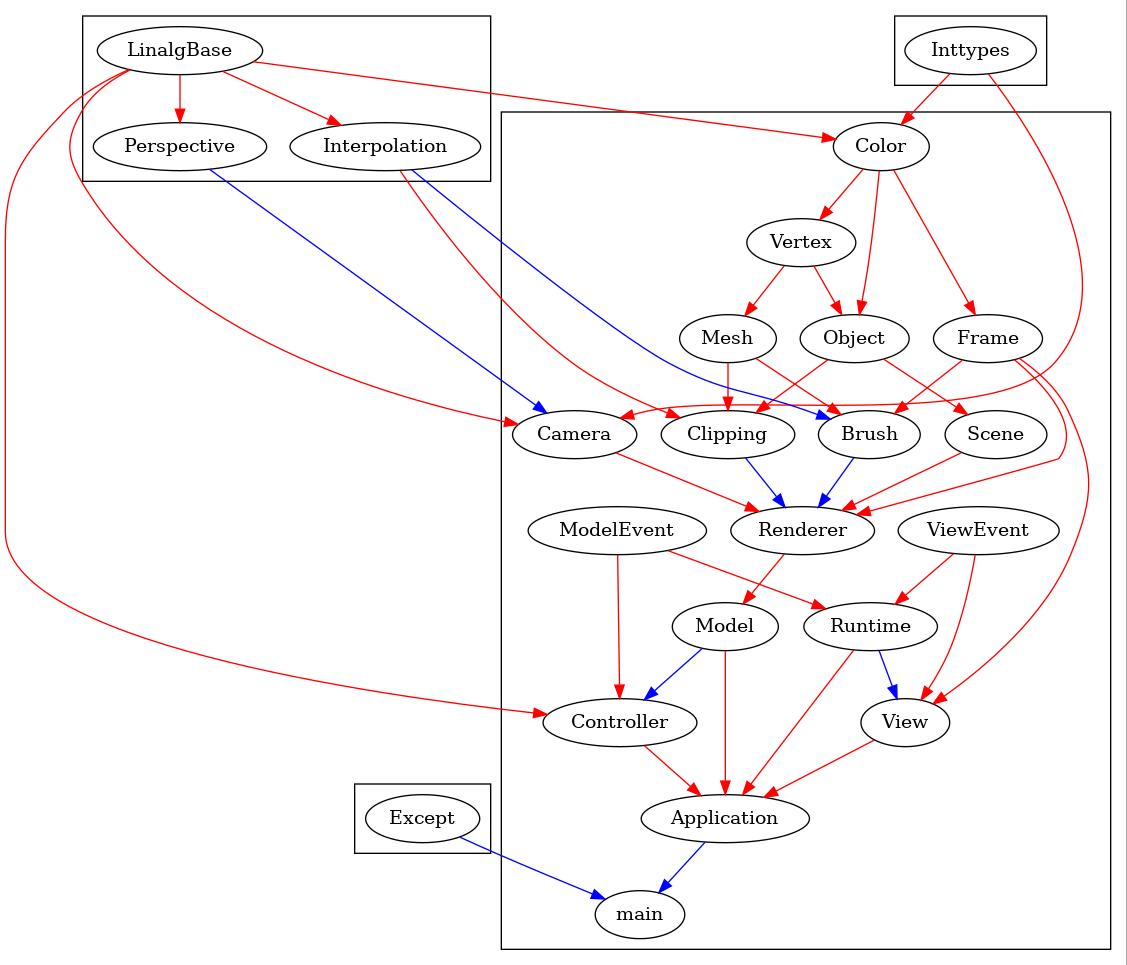
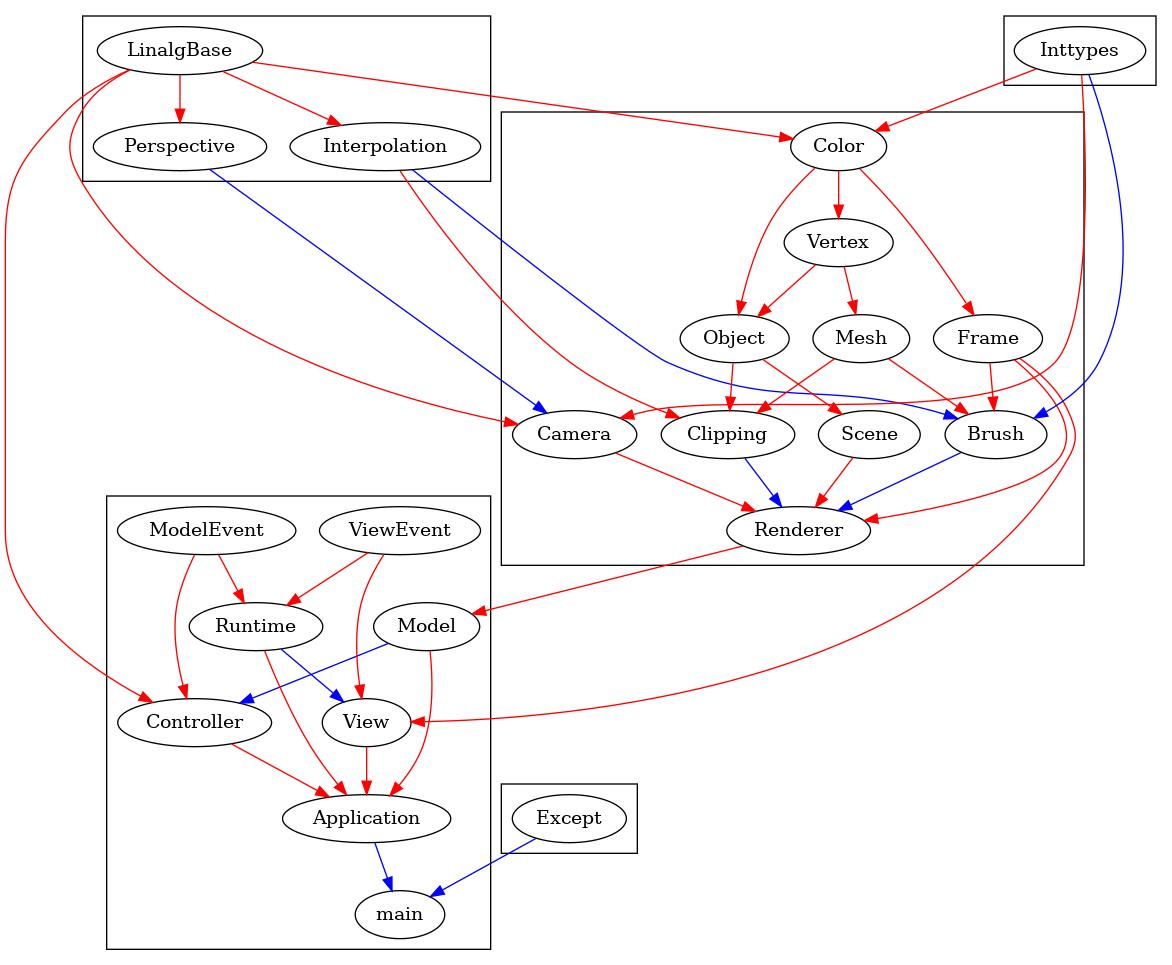
core

diff --git a/src/Core/Brush.h b/src/Core/Brush.h
@@ -17,7 +17,7 @@ class Brush {
 public:
 	explicit Brush(Canvas&& canvas);
 
-	//void drawPoint(const Vec2& pos, const Color3f& color);
+	// void drawPoint(const Vec2& pos, const Color3f& color);
 	void drawLine(const Vec2& p1, const Color3f c1, const Vec2 p2, Color3f c2);
 	void drawMesh(const Mesh& mesh);
 	void fillMesh(const Mesh& mesh);
@@ -27,7 +27,7 @@ public:
 private:
 	// SizePair relativeToAbsolute(const Vec2& pos) const;
 	DiffPair relativeToAbsolute(const Vec2& pos) const;
-	//Vec2 absoluteToRelative(SizePair pos) const;
+	// Vec2 absoluteToRelative(SizePair pos) const;
 
 	Vec2 absoluteToRelative(DiffPair pos) const;
 

diff --git a/src/Core/Brush.cpp b/src/Core/Brush.cpp
@@ -1,5 +1,6 @@
 #include "Brush.h"
 #include "Linalg/Interpolation.h"
+#include "Inttypes/Inttypes.h"
 
 namespace r3d {
 

diff --git a/src/View.h b/src/View.h
@@ -1,6 +1,6 @@
 #pragma once
 
-#include "Frame.h"
+#include "Core/Frame.h"
 #include "ViewEvent.h"
 
 namespace sf {

diff --git a/src/Model.h b/src/Model.h
@@ -1,6 +1,6 @@
 #pragma once
 
-#include "Renderer.h"
+#include "Core/Renderer.h"
 
 namespace r3d {
 class Model {
